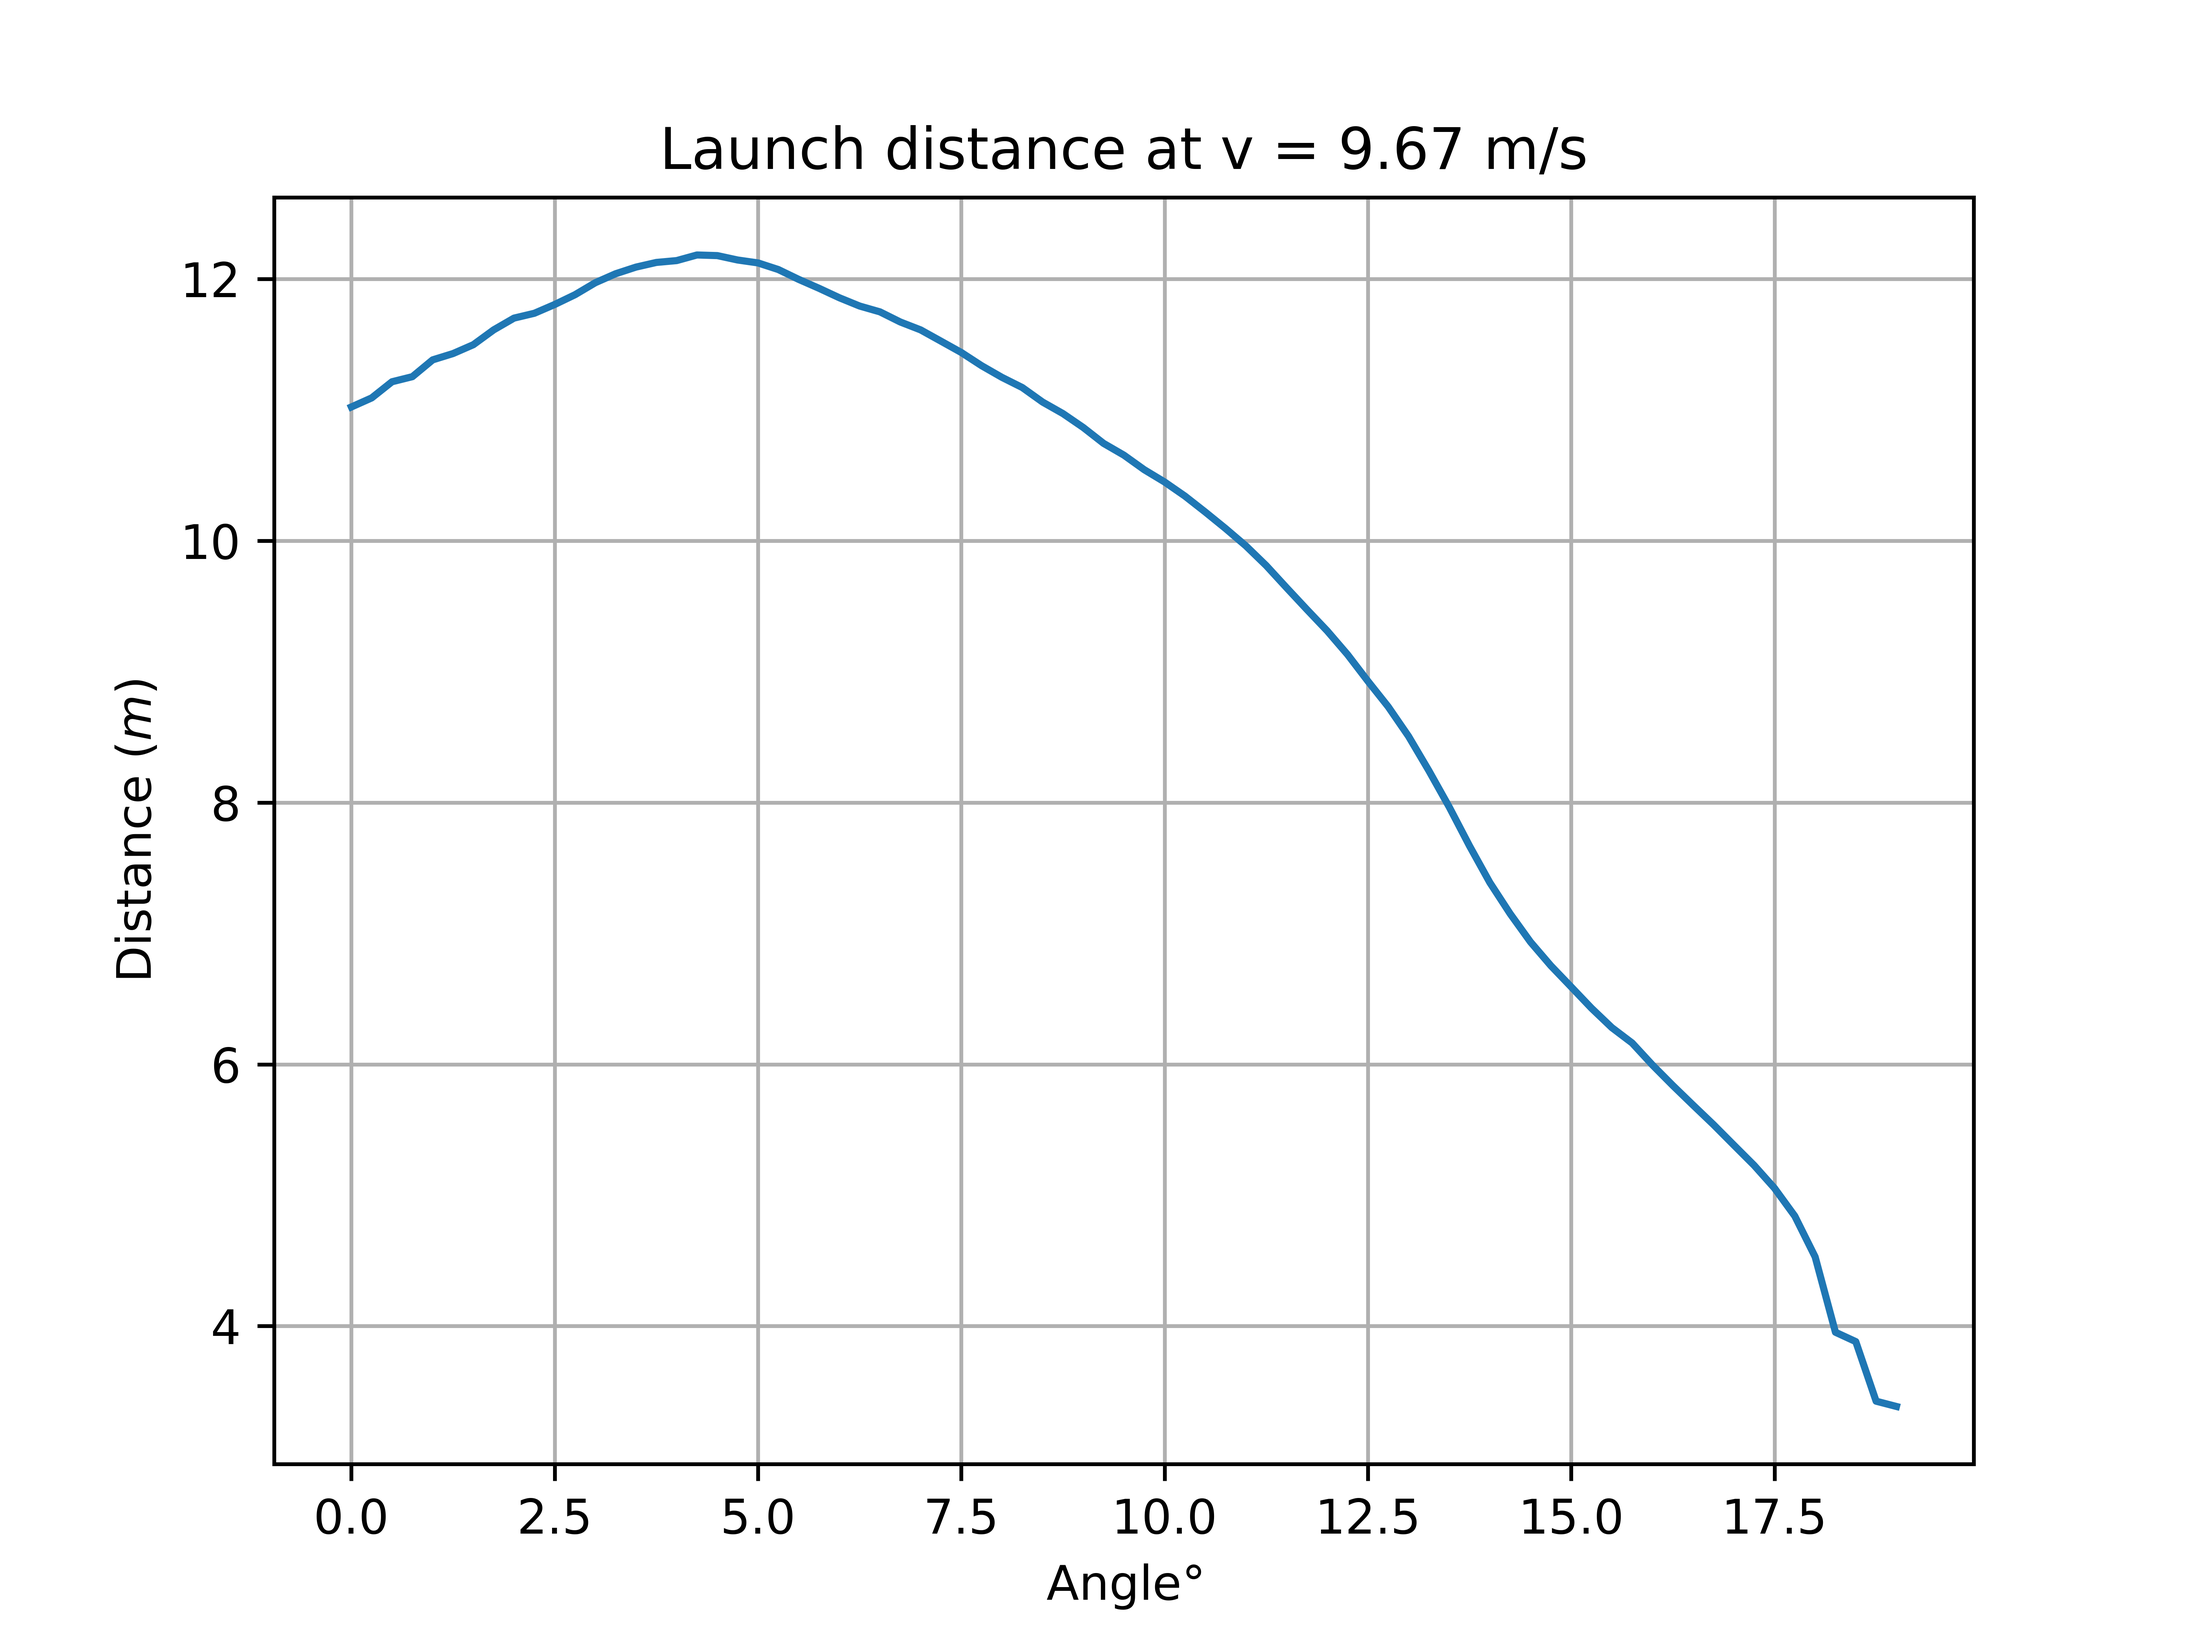
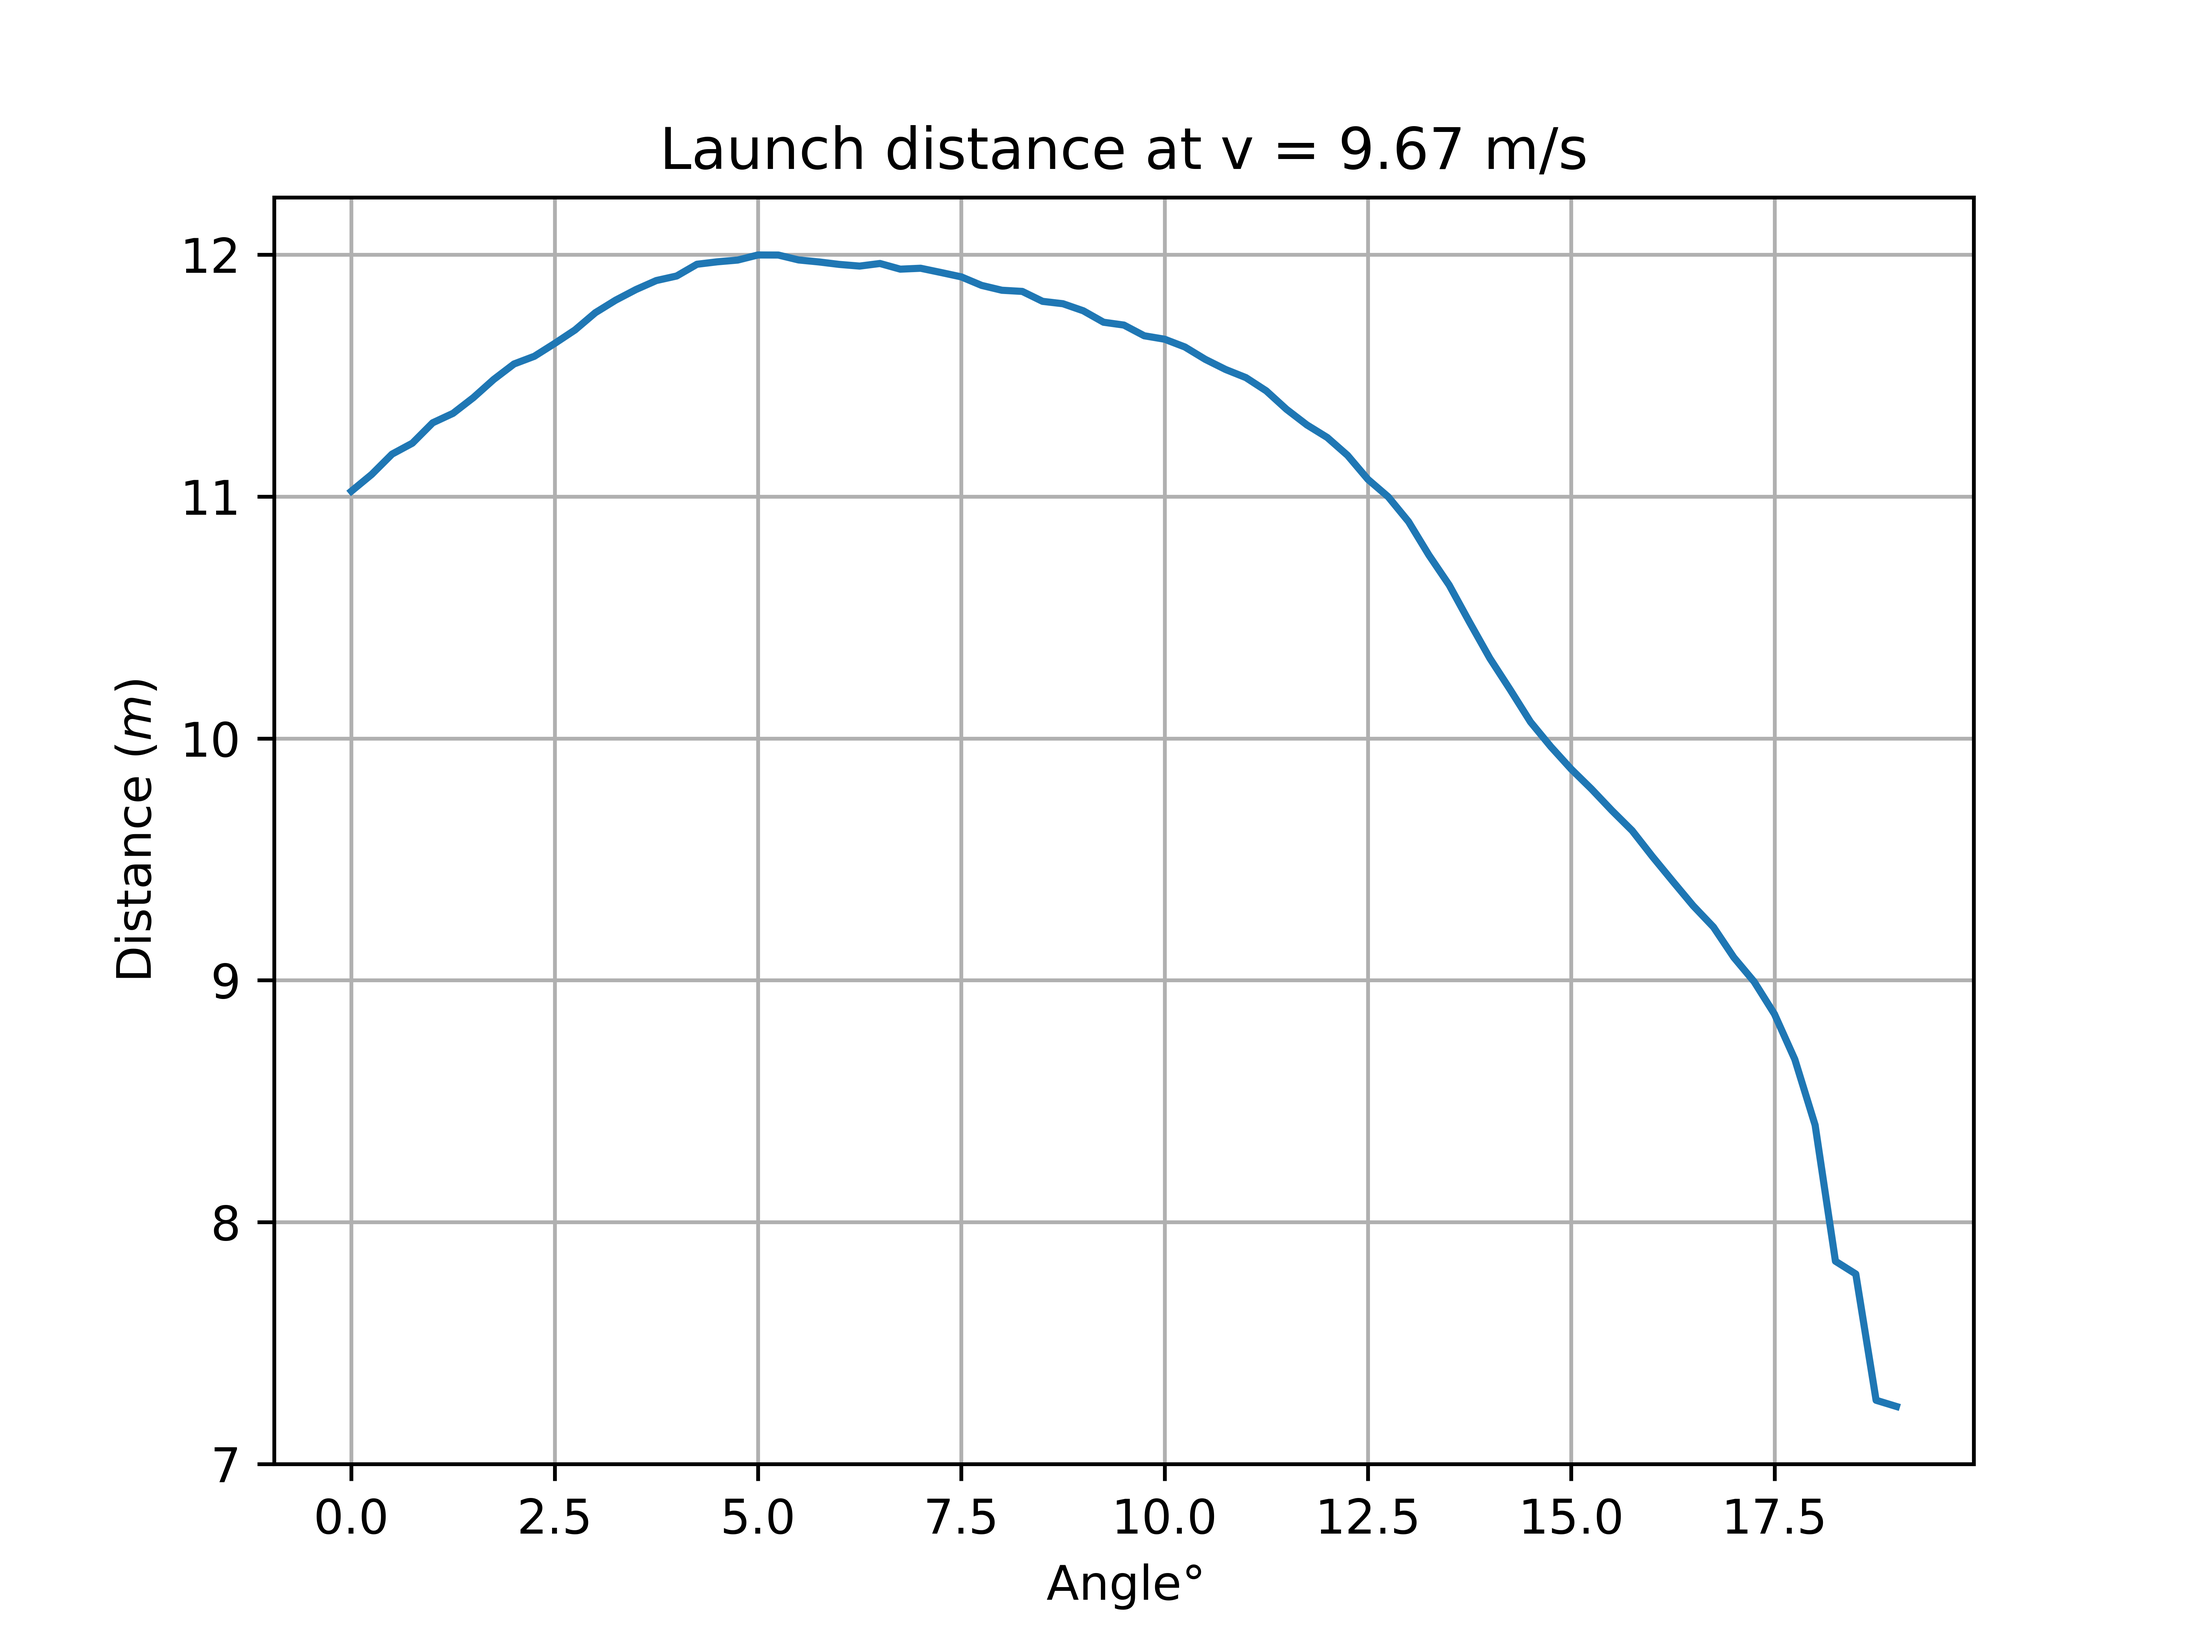
Changed drag coefficient to account for the method that this model uses

diff --git a/launch_cont.py b/launch_cont.py
@@ -19,6 +19,9 @@ for i in data:
     Cl = float(i[1])
     Cd = float(i[2])
  
+    if Alpha == 0:
+        Cd0 = Cd
+
     v = 9.67
 
     RadAlpha = math.radians(Alpha)
@@ -54,7 +57,7 @@ for i in data:
 
     while t0 <= t:
         t0 += 0.01 * t
-        vHor2 = 1 / (coef * t0 * Cd + 1/vHor2)
+        vHor2 = 1 / (coef * t0 * Cd0 + 1/vHor2)
         d2 = vHor2 * t1 + d2
 
     d = d1 + d2
